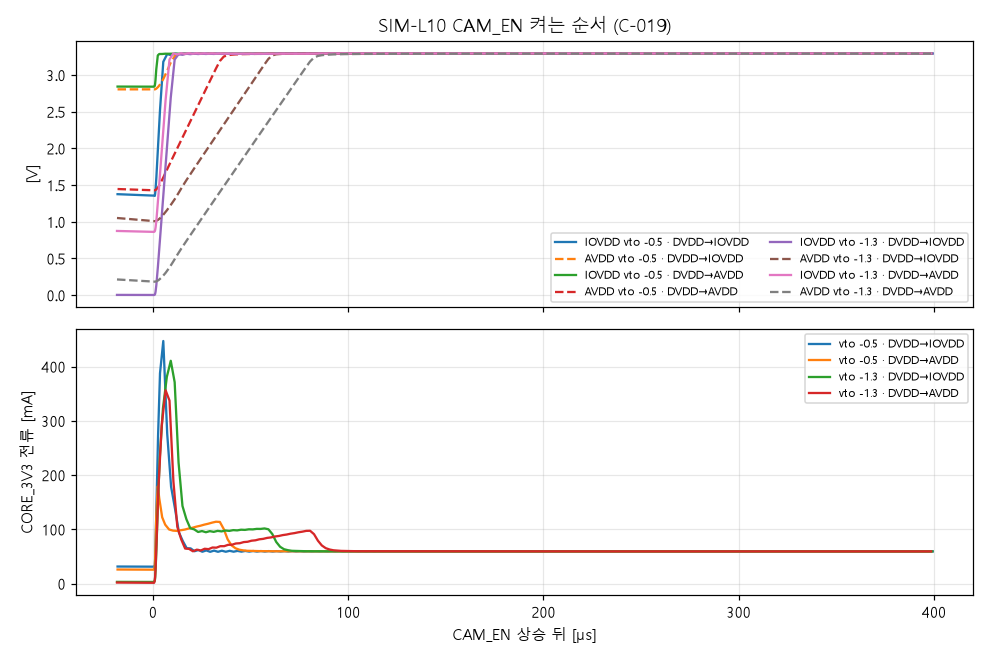
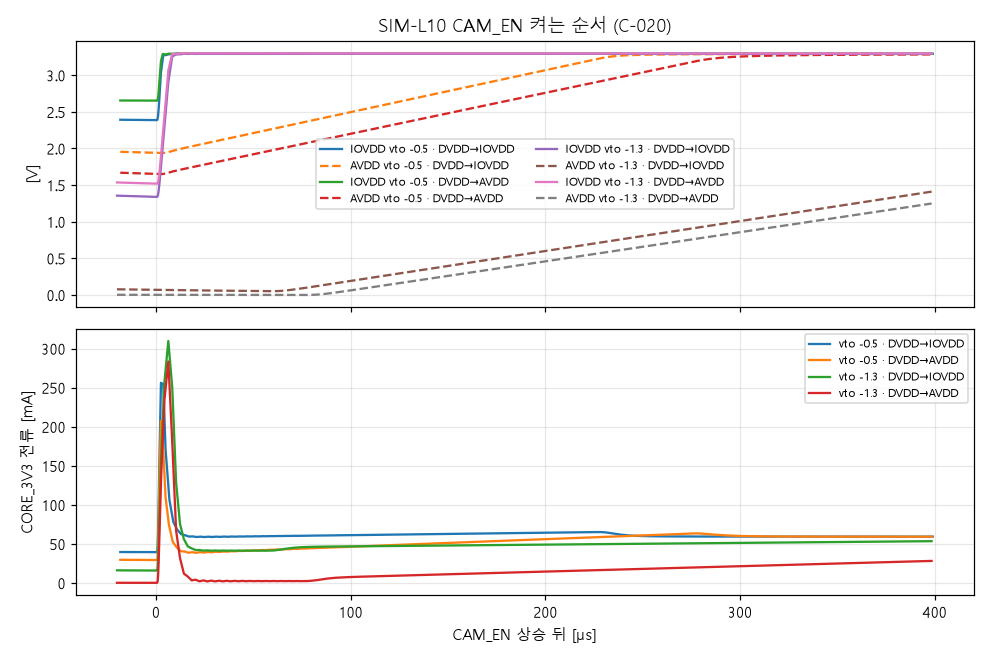
SIM-001d C-020(a2d878c) 재실행 종료 1: L9 끄는 순서(IOVDD 1.1ms 마지막)·L10 켜는 순서(AVDD−IOVDD 180µs) pass, L5·L8 pass, L3 S3만 불합격 그대로

diff --git a/hardware/sim/sim001b/run.py b/hardware/sim/sim001b/run.py
@@ -25,7 +25,7 @@ SIM = os.path.dirname(HERE)
 REPO = os.path.dirname(os.path.dirname(SIM))
 NG = os.environ.get("NGSPICE", "C:/Users/gh/tools/ngspice/47/Spice64/bin/ngspice_con.exe")
 CRITERIA_COMMIT = "7cab389"
-SCH_COMMIT = "7760f38"   # C-018 a61dc63 + C-019 (계약 v1.15): R6 6.04k, R17 4.7k·C19 4.7nF, 전면 R20 1k·C20·C21 4.7nF
+SCH_COMMIT = "a2d878c"   # C-020 (S6): 전면 R20 100k·R21 1k·D4 BAT54WS, R5 100k·D5 BAT54WS (+ C-018/C-019: R6 6.04k, R17 4.7k·C19 4.7nF, C20·C21 4.7nF)
 ILIM = 1.86   # TPS26600 R6 6.04 kΩ: I(OL) 최소 1.86 A (대표 ≈1.99 A, 계약 v1.14 3.1절 L108) — "시험 회로의 ILIM"을 보수적으로 최솟값으로
 ILIM_OLD = 1.49   # 7cab389 작성 때 회로(R6 8.06 kΩ)의 숫자 — 비교로만 적는다
 plt.rcParams["font.family"] = ["Malgun Gothic", "DejaVu Sans"]
@@ -549,15 +549,15 @@ AO3401A = ".model pa pmos level=1 vto={vto} kp=10\n"   # AOS AO3401A Rev3.1: VGS
 
 
 def rails_body(vto=-0.9, rli=110, rla=110, t_on=1e-3, t_off=20e-3):
-    """센서 레일 (C-019 7760f38): CORE_3V3 → Q1(AO3401A, 게이트 R20 1k ← CAM_PG, C20 4.7n G–D) → CAM_IOVDD,
-    Q2(게이트 R5 10k ← CAM_PG, C21 4.7n G–D) → CAM_AVDD, CAM_PG = R4 100k 풀업 · Q3 DMG1012T(G=CAM_EN). 리셋 R7·C10·D3."""
+    """센서 레일 (C-020 a2d878c): CORE_3V3 → Q1(AO3401A, 게이트 R20 100k ∥ (R21 1k + D4 BAT54WS → CAM_PG), C20 4.7n G–D) → CAM_IOVDD,
+    Q2(게이트 R5 100k ∥ D5 BAT54WS(CAM_PG →), C21 4.7n G–D) → CAM_AVDD, CAM_PG = R4 100k 풀업 · Q3 DMG1012T(G=CAM_EN). 리셋 R7·C10·D3."""
     return (GEN_D + BAT54 + ".model nq nmos level=1 vto=1.0 kp=1.79\n" + AO3401A.format(vto=vto) +
             f"V33s v33s 0 3.3\nR33 v33s v33 0.1\nC33 v33 0 22u\n"
             f"Ven e0 0 PWL(0 0 {t_on:.6g} 0 {t_on + 1e-6:.6g} 1.71 {t_off:.6g} 1.71 {t_off + 1e-6:.6g} 0)\nRen e0 en {GPIO}\nR6 en 0 100k\n"
             "R7 en rst 10k\nC10 rst 0 100n\nD3 rst en bat54\n"
             "M3 pg en 0 0 nq\nCg3 en 0 61p\nR4 v33 pg 100k\n"
-            "R20 pg pgio 1k\nM1 iov g1i v33 v33 pa\nRg1 pgio g1i 7.8\nCgs1 g1i v33 590p\nCgd1 g1i iov 55p\nC20 pgio iov 4.7n\nDb1 iov v33 dsi\n"
-            "R5 pg pgav 10k\nM2 avd g2i v33 v33 pa\nRg2 pgav g2i 7.8\nCgs2 g2i v33 590p\nCgd2 g2i avd 55p\nC21 pgav avd 4.7n\nDb2 avd v33 dsi\n"
+            "R20 pg pgio 100k\nR21 pgio d4a 1k\nD4 d4a pg bat54\nM1 iov g1i v33 v33 pa\nRg1 pgio g1i 7.8\nCgs1 g1i v33 590p\nCgd1 g1i iov 55p\nC20 pgio iov 4.7n\nDb1 iov v33 dsi\n"
+            "R5 pg pgav 100k\nD5 pg pgav bat54\nM2 avd g2i v33 v33 pa\nRg2 pgav g2i 7.8\nCgs2 g2i v33 590p\nCgd2 g2i avd 55p\nC21 pgav avd 4.7n\nDb2 avd v33 dsi\n"
             f"C7 iov 0 1u\nRli iov 0 {rli}\nC8 avd 0 1u\nC9 avd 0 100n\nRla avd 0 {rla}\n")
 
 
@@ -570,38 +570,31 @@ def b8():
     t, ven, vr, vi, va = d["time"], col(d, h, 1), col(d, h, 2), col(d, h, 3), col(d, h, 4)
     t_rel = cross(t, vr, 0.7 * 1.8, True, 1e-3)
     t_pw = max(cross(t, vi, 0.9 * 3.3, True, 1e-3) or 1, cross(t, va, 0.9 * 3.3, True, 1e-3) or 1)
-    checks.append(check("리셋 해제 − 센서 전원 90 % 시각", ">=", 0.0, "s", (t_rel - t_pw) if t_rel else None, "C-019 레일, AO3401A vto −0.9, 부하 30mA(가정)"))
+    checks.append(check("리셋 해제 − 센서 전원 90 % 시각", ">=", 0.0, "s", (t_rel - t_pw) if t_rel else None, "C-020 레일, AO3401A vto −0.9, 부하 30mA(가정)"))
     t_dn = cross(t, ven, 0.855, False, 19e-3)
     t_rl = cross(t, vr, 0.3 * 1.8, False, t_dn or 0)
     checks.append(check("CAM_EN 하강 → CAM_RESET < 0.54 V", "<=", 50e-6, "s", (t_rl - t_dn) if (t_rl and t_dn) else None, "D3 BAT54WS"))
     t_iv = cross(t, vi, 0.9 * 3.3, False, t_dn or 0)
     checks.append(check("전원 90 % 하강 − 리셋 하강", ">=", 0.0, "s", (t_iv - t_rl) if (t_iv and t_rl) else None, "같음"))
     notes.append(f"기록만: 리셋 해제 {((t_rel - 1e-3) * 1e3) if t_rel else float('nan'):.2f} ms (CAM_EN 뒤) vs X1 기동 최대 3 ms — GC2053 'MCLK 뒤 리셋 해제' 수치 요구는 미확인이라 판정 밖. 첫 I2C는 FW 가 CAM_EN 뒤 ≥5 ms")
-    notes.append("C-019 레일(7760f38: R20 1k·C20·C21 4.7nF). AO3401A AOS Rev3.1 수치. 센서 레일 부하 30 mA(가정)")
+    notes.append("C-020 레일(a2d878c: R20 100k·R21 1k·D4 / R5 100k·D5, C20·C21 4.7nF). AO3401A AOS Rev3.1 수치. 센서 레일 부하 30 mA(가정)")
     fig, ax = plt.subplots(figsize=(9, 4))
     for y, lb in ((ven, "CAM_EN"), (vr, "CAM_RESET"), (vi, "CAM_IOVDD"), (va, "CAM_AVDD")):
         ax.plot(t * 1e3, y, label=lb)
     ax.legend(); ax.set_xlabel("시간 [ms]"); ax.set_ylabel("[V]"); ax.grid(alpha=.3)
-    ax.set_title("SIM-L8 센서 리셋 RC (R7 10k · C10 100 nF · D3) 와 센서 전원 (C-019)")
+    ax.set_title("SIM-L8 센서 리셋 RC (R7 10k · C10 100 nF · D3) 와 센서 전원 (C-020)")
     fig.tight_layout(); fig.savefig(png, dpi=110); plt.close(fig)
-    return dict(id="SIM-L8", title="센서 리셋 RC 시간과 전원 순서", refs=["R7", "C10", "D3", "Q1", "Q2", "Q3", "R4", "R5", "R6", "R20", "C20", "C21", "C7", "C8", "C9"],
+    return dict(id="SIM-L8", title="센서 리셋 RC 시간과 전원 순서", refs=["R7", "C10", "D3", "Q1", "Q2", "Q3", "R4", "R5", "R6", "R20", "R21", "D4", "D5", "C20", "C21", "C7", "C8", "C9"],
                 checks=checks, png=[png], net="SIM-L8.cir", notes=notes, model=rails_model())
 
 
 def rails_model():
     return dict(source="RC + 레벨 1 MOSFET 근사", url="https://www.aosmd.com/res/datasheets/AO3401A.pdf", license="—", behavioral=True,
-                basis="회로 boards.py 7760f38 L181–196; AO3401A AOS Rev3.1(VGS(th) -0.5/-0.9/-1.3, RDS(on) 60/85mΩ@-2.5V, Ciss 645 Crss 55 pF, Rg 7.8); DMG1012T DS31783; GC2053 사본 V1.1 §2.3·§9.2·§9.3; CORE_3V3 경로 0.1Ω·22µF(가정)")
+                basis="회로 boards.py a2d878c L181–196; D4·D5 BAT54WS 근사(가정); AO3401A AOS Rev3.1(VGS(th) -0.5/-0.9/-1.3, RDS(on) 60/85mΩ@-2.5V, Ciss 645 Crss 55 pF, Rg 7.8); DMG1012T DS31783; GC2053 사본 V1.1 §2.3·§9.2·§9.3; CORE_3V3 경로 0.1Ω·22µF(가정)")
 
 
 # 부하 경우: (이름, IOVDD 부하 Ω, AVDD 부하 Ω) — GC2053 §2.3 최대 IIOVDD 2.5mA · IAVDD 18mA · IDVDD 39mA 를 3.3V 입력 전류로 근사
 LOADS = (("DVDD→IOVDD", 3.3 / 41.5e-3, 3.3 / 18e-3), ("DVDD→AVDD", 3.3 / 2.5e-3, 3.3 / 57e-3))
-
-
-def s6(body):
-    """수정 제안 S6 (판정 밖): 게이트 비대칭 RC — Q1: 켤 때 1k+BAT54(소프트스타트 유지)·끌 때 R20 100k 로 천천히,
-    Q2: 켤 때 R5 100k 로 천천히·끌 때 BAT54 로 빨리 → IOVDD 먼저 켜고 마지막에 끈다."""
-    return (body.replace("R20 pg pgio 1k\n", "R20 pg pgio 100k\nR20a pgio d20 1k\nD20 d20 pg bat54\n")
-                .replace("R5 pg pgav 10k\n", "R5 pg pgav 100k\nD21 pg pgav bat54\n"))
 
 
 def rail_runs(mod=None):
@@ -613,23 +606,6 @@ def rail_runs(mod=None):
                             save_as=os.path.join(SIM, "SIM-L9.cir") if (not mod and vto == -1.3 and lname == LOADS[0][0]) else None)
             runs.append((f"vto {vto} · {lname}", d, h))
     return runs
-
-
-def s6_note(runs):
-    on, off, ipk, vmin = [], [], 0.0, 9.0
-    for _, d, h in runs:
-        t = d["time"]
-        ven, vi, va, v3, i3 = (col(d, h, k) for k in (1, 3, 4, 5, 6))
-        ten = cross(t, ven, 0.855, True, 0.9e-3)
-        tdn = cross(t, ven, 0.855, False, 5.9e-3)
-        ti, ta = cross(t, vi, 2.97, True, ten or 0), cross(t, va, 2.97, True, ten or 0)
-        to, tao = cross(t, vi, 2.97, False, tdn or 0), cross(t, va, 2.97, False, tdn or 0)
-        on.append((ta - ti) if (ta and ti) else float("nan"))
-        off.append((to - tao) if (to and tao) else float("nan"))
-        m = (t > 0.9e-3) & (t < 5.9e-3)
-        ipk, vmin = max(ipk, float((-i3[m]).max())), min(vmin, float(v3[t > 0.9e-3].min()))
-    return (f"수정 제안 검증(판정 밖, S6 — Q1 게이트 R20 100k ∥ (1k+BAT54), Q2 게이트 R5 100k ∥ BAT54): 최악 켤 때 AVDD−IOVDD {min(on) * 1e6:.1f} µs(≥50), "
-            f"끌 때 IOVDD−AVDD {min(off) * 1e6:.1f} µs(≥0), CORE_3V3 돌입 {ipk * 1e3:.0f} mA, 최저 {vmin:.3f} V")
 
 
 def b9(runs):
@@ -658,8 +634,8 @@ def b9(runs):
             ax.plot((r["t"][m] - 6e-3) * 1e3, y[m], label=lb)
         ax.set_title(r["name"], fontsize=9); ax.grid(alpha=.3)
     axs[0].legend(fontsize=8, ncol=4); axs[-1].set_xlabel("CAM_EN 하강 뒤 [ms]")
-    fig.suptitle("SIM-L9 CAM_EN 끄는 순서 (C-019)"); fig.tight_layout(); fig.savefig(png, dpi=110); plt.close(fig)
-    return dict(id="SIM-L9", title="CAM_EN 끄는 순서 — IOVDD·AVDD·리셋·CORE_3V3", refs=["Q1", "Q2", "Q3", "R4", "R5", "R20", "C20", "C21", "C7", "C8", "C9", "R7", "C10", "D3"],
+    fig.suptitle("SIM-L9 CAM_EN 끄는 순서 (C-020)"); fig.tight_layout(); fig.savefig(png, dpi=110); plt.close(fig)
+    return dict(id="SIM-L9", title="CAM_EN 끄는 순서 — IOVDD·AVDD·리셋·CORE_3V3", refs=["Q1", "Q2", "Q3", "R4", "R5", "R20", "R21", "D4", "D5", "C20", "C21", "C7", "C8", "C9", "R7", "C10", "D3"],
                 checks=checks, png=[png], net="SIM-L9.cir", notes=notes, model=rails_model())
 
 
@@ -689,9 +665,9 @@ def b10(runs):
         ax[1].plot((r["t"][m] - 1e-3) * 1e6, r["i3"][m] * 1e3, label=r["name"])
     ax[0].set_ylabel("[V]"); ax[0].legend(fontsize=7, ncol=2); ax[0].grid(alpha=.3)
     ax[1].set_ylabel("CORE_3V3 전류 [mA]"); ax[1].set_xlabel("CAM_EN 상승 뒤 [µs]"); ax[1].legend(fontsize=7); ax[1].grid(alpha=.3)
-    ax[0].set_title("SIM-L10 CAM_EN 켜는 순서 (C-019)")
+    ax[0].set_title("SIM-L10 CAM_EN 켜는 순서 (C-020)")
     fig.tight_layout(); fig.savefig(png, dpi=110); plt.close(fig)
-    return dict(id="SIM-L10", title="CAM_EN 켜는 순서 — IOVDD→AVDD ≥50µs·CORE_3V3", refs=["Q1", "Q2", "Q3", "R4", "R5", "R20", "C20", "C21", "C7", "C8", "C9"],
+    return dict(id="SIM-L10", title="CAM_EN 켜는 순서 — IOVDD→AVDD ≥50µs·CORE_3V3", refs=["Q1", "Q2", "Q3", "R4", "R5", "R20", "R21", "D4", "D5", "C20", "C21", "C7", "C8", "C9"],
                 checks=checks, png=[png], net="SIM-L9.cir", notes=notes, model=rails_model())
 
 
@@ -709,10 +685,7 @@ def main():
         try:
             if tid in ("SIM-L9", "SIM-L10") and runs is None:
                 runs = rail_runs()
-                s6n = s6_note(rail_runs(s6))
             r = b3(b2res) if tid == "SIM-L3" else b9(runs) if tid == "SIM-L9" else b10(runs) if tid == "SIM-L10" else fn()
-            if tid in ("SIM-L9", "SIM-L10"):
-                r["notes"].append(s6n)
             if tid == "SIM-L2":
                 b2res = r
             verdict = "pass" if all(c["pass"] for c in r["checks"]) else "fail"

diff --git a/hardware/sim/SIM-001b-results.md b/hardware/sim/SIM-001b-results.md
@@ -106,3 +106,24 @@
 - **한계:**
   - 모듈 BXF4677 안 LDO의 지연·문턱과 DVDD12가 어느 입력에서 나오는지 몰라 보드 레일 90 %로 대신 봤다.
   - 그래서 실물 순서는 bring-up에서 IOVDD·AVDD 프로브로 확인해야 한다(절차서 1-6 옆에 추가 제안).
+
+## SIM-001d — C-020 회로 재실행 (schematic `a2d878c`, S6 반영)
+
+- 레인: `t-20261127-060029-2377`(`start --from` bf55 — SIM-001c가 아직 main에 없어서).
+- 실행 전에 적용 메모 `SIM-001d-criteria-c020.md`를 커밋했다. 기준은 `7cab389` · `f47e537` 그대로다.
+- 실행 결과: **종료 코드 1** (pass 9 · fail 1). JSON은 모두 `schematic_commit: a2d878c`다.
+
+| 시험 | 결과 | 수치 |
+|---|---|---|
+| L1 · L2 · L4 · L6 · L7 | pass | 이전과 같다 |
+| L3 | **fail** (S3 그대로) | 끔 구간 6.08 mA. O-87대로 기준 그대로 기록하고, 실물은 bring-up 5-9에서 본다 |
+| L5 | pass | 켜짐 23.5 µs · 돌입 0.242 A · 꺼짐 47.2 µs |
+| L8 | pass | 리셋 해제가 전원 90 % 뒤 0.88 ms(vto −0.9 대표). 리셋 하강 11.4 µs, 전원 하강보다 3.25 ms 먼저 |
+| **L9 끄는 순서** | **pass** (이전 fail) | IOVDD − AVDD 최악 **1.105 ms**(IOVDD 마지막). 리셋이 AVDD보다 1.05 ms 먼저. CORE_3V3 최저 3.294 V · 역류 0 |
+| **L10 켜는 순서** | **pass** (이전 fail) | AVDD − IOVDD 최악 **180 µs**(≥ 50). CORE_3V3 최저 3.269 V · 돌입 310 mA |
+
+- **참고 (판정 밖):** AVDD가 늦게 올라오면서 리셋 해제의 여유가 줄었다.
+  - L8은 대표 모서리(vto −0.9)로 0.88 ms 여유다.
+  - L10의 가장 느린 경우는 vto −1.3에서 AVDD 90 %가 833 µs이고, 리셋 해제는 CAM_EN 뒤 약 1.2 ms다(R7 10 kΩ · C10 100 nF → 0.7 × 1.8 V).
+  - 그래서 최악 여유는 약 0.37 ms다. 아직 ≥ 0이지만 GC2053 §9.2(t3 PWDN → RESETB ≥ 0)에 대해 줄어든 여유를 bring-up 1-7 측정 때 함께 본다.
+- **한계 (그대로):** 모듈 내부 LDO와 DVDD 공급 레일을 몰라 보드 레일 90 %로 대신 봤다. 실물 순서는 bring-up에서 프로브로 확인한다.
